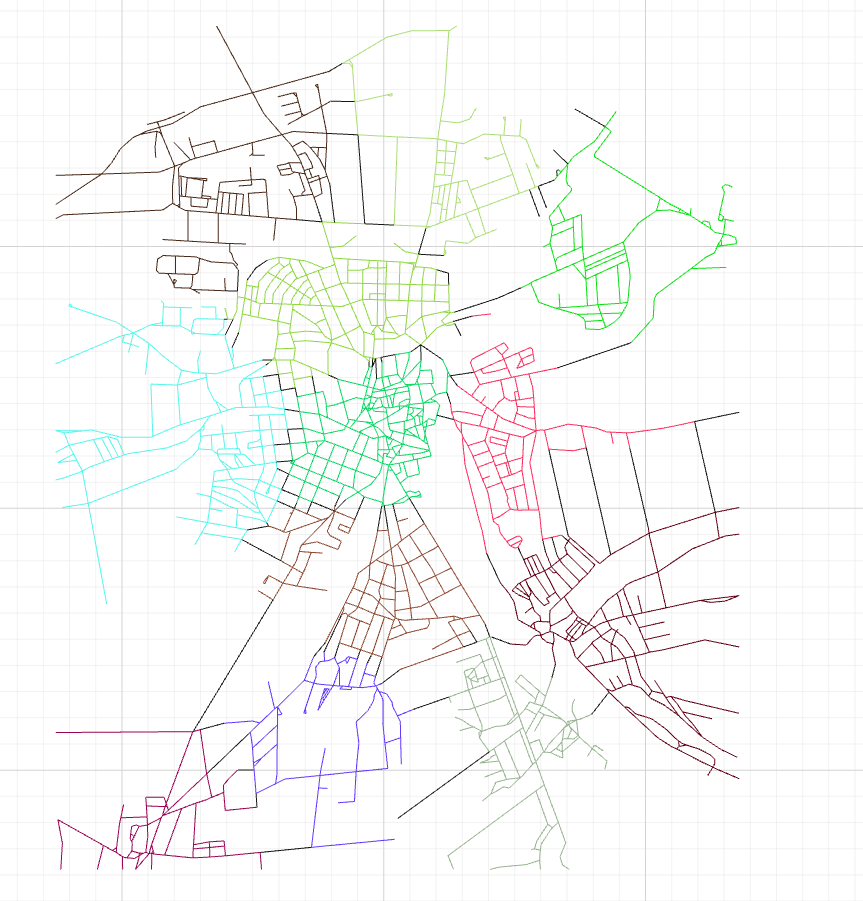
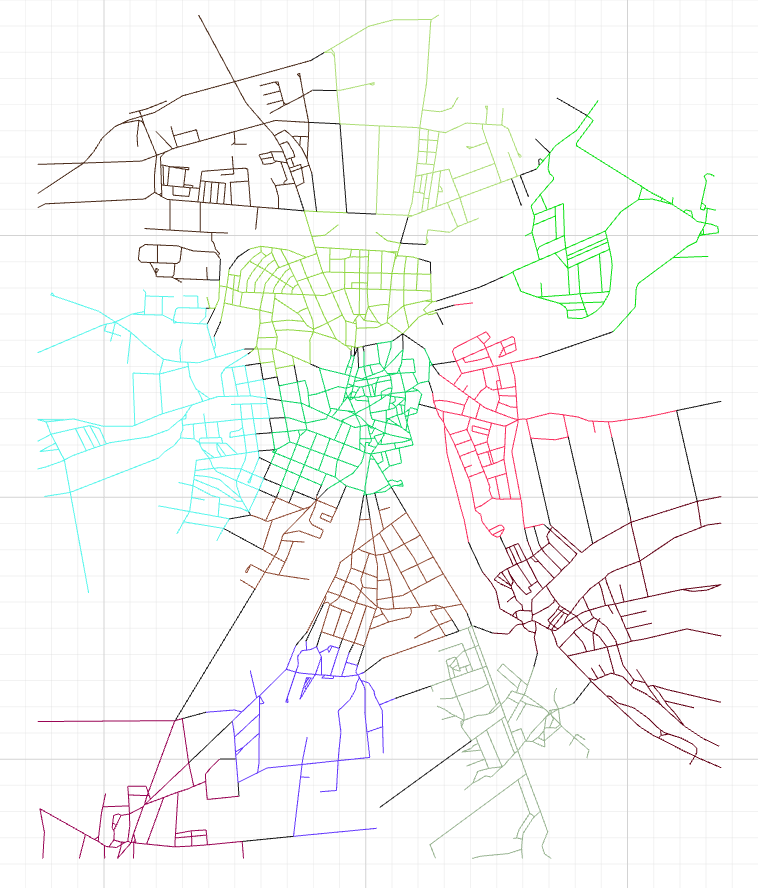
Added frames around images

diff --git a/030_KMeans.tex b/030_KMeans.tex
@@ -21,27 +21,37 @@ The ETH-Zurich provided the following networks: Bad Berka (552 nodes, 626 edges)
 
 \subsection{Result}
 The implementation in CPlan \ref{CPlan} produced the following image \ref{fig:KmeansGenerated} based on the city of Weimar. All streets in one cluster are marked with the same colour, the transitions between clusters are marked black.
-\begin{figure}[!h]
+
+\begin{figure}
     \centering
-    \includegraphics[width=\textwidth]{clusteranalysis_kmeans_result.png}
-    \caption{K-Means cluster analysis of Weimar\label{fig:KmeansGenerated}}
+    \begin{mdframed}[style=mdthight, userdefinedwidth=0.55\textwidth, align=center]
+        \includegraphics[width=\textwidth]{clusteranalysis_kmeans_problem.png}
+    \end{mdframed}
+    \caption{Problem of K-Means clustering
+        \label{fig:KmeansProblem}}
+\end{figure}
+
+\begin{figure}
+    \centering
+    \begin{mdframed}[style=mdthight]
+        \includegraphics[width=\textwidth]{clusteranalysis_kmeans_result.png}
+    \end{mdframed}
+    \caption{K-Means cluster analysis of Weimar
+    \label{fig:KmeansGenerated}}
 \end{figure}
 
 \subsection{Problem} \label{sec:kmenasProblem}
 The algorithm is based on the euclidean distance between cluster centroids and street junctions, the edge data (e.g. street length) is not used. As a result it leads to unexpected transitions between clusters. In the image \ref{fig:KmeansProblem} the result can be seen in the read circle where only one point is marked as outer cluster. The two black lines represent the cluster transitions.
-\begin{figure}[!h]
-    \centering
-    \includegraphics[width=0.6\textwidth]{clusteranalysis_kmeans_problem.png}
-    \caption{Problem of K-Means clustering\label{fig:KmeansProblem}}
-\end{figure}
 
 \subsection{K-Means with Shortest Path} \label{sec:K-Means_shortest_path}
 To solve the problem of unexpected transitions between clusters the best result of the K-Means algorithm can be combined with the distance measurement of a shortest path algorithm (Dijkstra / FloydWarshall). These algorithms are used by hierarchical clustering \ref{sec:shortest_path}. The edges are assigned by the edge data (e.g. street length) to the nearest cluster. Therefore the result is a connected graph. This means every vertex can be reached from every other vertex within a cluster. In the generated figure \ref{fig:Kmeansshortestp} the artefacts described in \ref{kmenasProblem} are removed.
 
 Additional calculation time is needed for the shortest path algorithm. The differences can be compared in the section Practical Task/Measurements \ref{sec:measurements};
 
-\begin{figure}[!h]
+\begin{figure}
     \centering
-    \includegraphics[width=0.9\textwidth]{clusteranalysis_kmeansExt_result.png}
+    \begin{mdframed}[style=mdthight]
+        \includegraphics[width=\textwidth]{clusteranalysis_kmeansExt_result.png}
+    \end{mdframed}
     \caption{K-Means clustering with shortest path\label{fig:Kmeansshortestp}}
 \end{figure}

diff --git a/040_HierarchicalClustering.tex b/040_HierarchicalClustering.tex
@@ -1,3 +1,4 @@
+\FloatBarrier
 \section{Hierarchical Clustering} \label{sec:hierarchicalClustering}
 \subsection{Introduction}
 Hierarchical clustering, also known as connectivity based clustering, was the next applied approach. This area of algorithms clusters nodes together, which are near to each other. The advantage over K-Means is that graph distances can be used instead of the euclidean distance.

diff --git a/IP6 - Report Street Networks.tex b/IP6 - Report Street Networks.tex
@@ -16,6 +16,7 @@
 \usepackage{txfonts}
 
 \usepackage{multirow}
+\usepackage{placeins}
 
 \setlength{\parindent}{0ex}
 \setlength{\parskip}{1ex}
